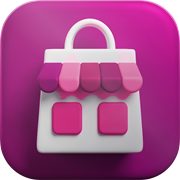
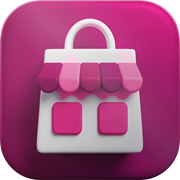
the mark is Jaipur pink, not magenta
Magenta won on the comparison card and lost on the site. Rajat, once it was
actually in the header: "jaipur pink kar do, log ko vo zada theek laga."
Right instinct - magenta reads sharper and more generic-digital, and it is
the one shade on that page that does not belong to the Pink City.

#C2186F -> #7E0F4F. One colour deepening into itself rather than two colours
meeting, which is why it holds its hue at 16px where a two-stop ground
muddies. 10.2:1 bag-on-ground, 2.50x awning separation - both better than the
magenta it replaces.

Every icon re-cut from the same master; CLAUDE.md, DESIGN.md, the Logo.jsx
header and FRONTEND-PLAN 4.57 carry the final hex.

Changed region(s): [[0.3611, 0.0, 1.0, 0.3611], [0.5278, 0.1389, 0.5556, 0.1667], [0.3056, 0.4167, 0.3333, 0.4444]]

diff --git a/web/src/components/brand/Logo.jsx b/web/src/components/brand/Logo.jsx
@@ -5,8 +5,9 @@ import Image from 'next/image';
  *
  * WHAT IT IS
  *   A shopping bag with a shop front inside it: a scalloped awning across the
- *   bag and two shutters below it, white on a magenta tile that runs #C21A8D
- *   into #78095A and is lit from the top-left.
+ *   bag and two shutters below it, white on a Jaipur pink tile that runs
+ *   #C2186F into #7E0F4F and is lit from the top-left - one colour deepening
+ *   into itself rather than two colours meeting.
  *
  * WHY NOT A BAG ON ITS OWN
  *   Because a bag on its own is taken. Shopify's mark is a bag with an S cut

diff --git a/web/DESIGN.md b/web/DESIGN.md
@@ -138,8 +138,9 @@ header on top of a dashboard.
 Jaipur is in the identity on purpose and with restraint - but through the
 COLOUR, not through a building. The mark is a shopping bag with a shop front
 inside it: a scalloped awning and two shutters, which is what says *many shops
-in one place* rather than one shop. It sits on a magenta tile that runs
-`#C21A8D` into `#78095A`, lit from the top-left.
+in one place* rather than one shop. It sits on a Jaipur pink tile that runs
+`#C2186F` into `#7E0F4F`, lit from the top-left - one colour deepening into
+itself rather than two colours meeting.
 
 The jharokha went on 26 Sep 2026. It was the honest Jaipur form and it was
 also a building, and a marketplace is not a building; at 16px an arch and a
@@ -365,8 +366,8 @@ Quality bands are tiny rounded labels: Best / High / Good / Basic.
 ### Signature Components
 
 - **The mark**: a shopping bag with a shop front inside it - white bag,
-  scalloped awning and two shutters in `--brand-rose #E03B8A`, on a magenta
-  tile (`#C21A8D` to `#78095A`). Rendered in 3D (FLUX.2 klein-9b on
+  scalloped awning and two shutters in `--brand-rose #E03B8A`, on a
+  Jaipur pink tile (`#C2186F` to `#7E0F4F`). Rendered in 3D (FLUX.2 klein-9b on
   Cloudflare, 26 Sep 2026), then recoloured onto brand tokens hue-by-hue with
   every pixel's lightness left alone, so the render's own shading survives.
   Finished with a specular sheen, a rim light, a bloom and a vignette, and cut

diff --git a/FRONTEND-PLAN.md b/FRONTEND-PLAN.md
@@ -2701,8 +2701,17 @@ in through the ends of the awning and eats the shop front. It did, once.
 printed with two measured numbers: white bag against ground (WCAG asks 3:1 for
 icon graphics) and how far the awning stands clear of the tile — below about
 1.3× the shop front dissolves at 32px. Rajat: *"rehndo pink hi badiya hai,
-purple hata do"*, then *"magenta"*. **`#C21A8D` → `#78095A`**, awning and
-shutters `--brand-rose #E03B8A`, bag white. 10.6:1 and 2.60×.
+purple hata do"*, then *"magenta"* — and then, once magenta was actually on
+the site rather than on a comparison card, *"jaipur pink kar do, log ko vo
+zada theek laga"*. Which is the right instinct and the reason the page shows
+every candidate in a real header and on a home screen: magenta reads sharper
+and more generic-digital, and it is the one shade on that page that does not
+belong to the Pink City.
+
+**Final: `#C2186F` → `#7E0F4F`**, awning and shutters `--brand-rose #E03B8A`,
+bag white. 10.2:1 bag-on-ground, 2.50× awning separation. One colour
+deepening into itself, which is why it holds its hue at 16px where a two-stop
+ground muddies.
 
 **The finish**, because a flat tile of colour is not an icon: a specular
 sheen, a rim light — bright along the top edge, dark along the bottom, which

diff --git a/CLAUDE.md b/CLAUDE.md
@@ -46,7 +46,7 @@ it sells anything, and nothing in the frame may name a category.
 4. **Commit at milestones**, not after every fix. Push together.
 5. **Jaipur is the trust story** — same-city trust recruits sellers and buyers.
    The mark is a shopping bag with a shop front inside it - awning and two
-   shutters - on a magenta tile (`#C21A8D` to `#78095A`). Jaipur is carried by
+   shutters - on a Jaipur pink tile (`#C2186F` to `#7E0F4F`). Jaipur is carried by
    the COLOUR, not by a building: the jharokha went on 26 Sep 2026 because a
    marketplace is not a building and an arch reads as a generic window at 16px.
    A bag alone is Shopify's and Flipkart's; the shop front is what makes it
